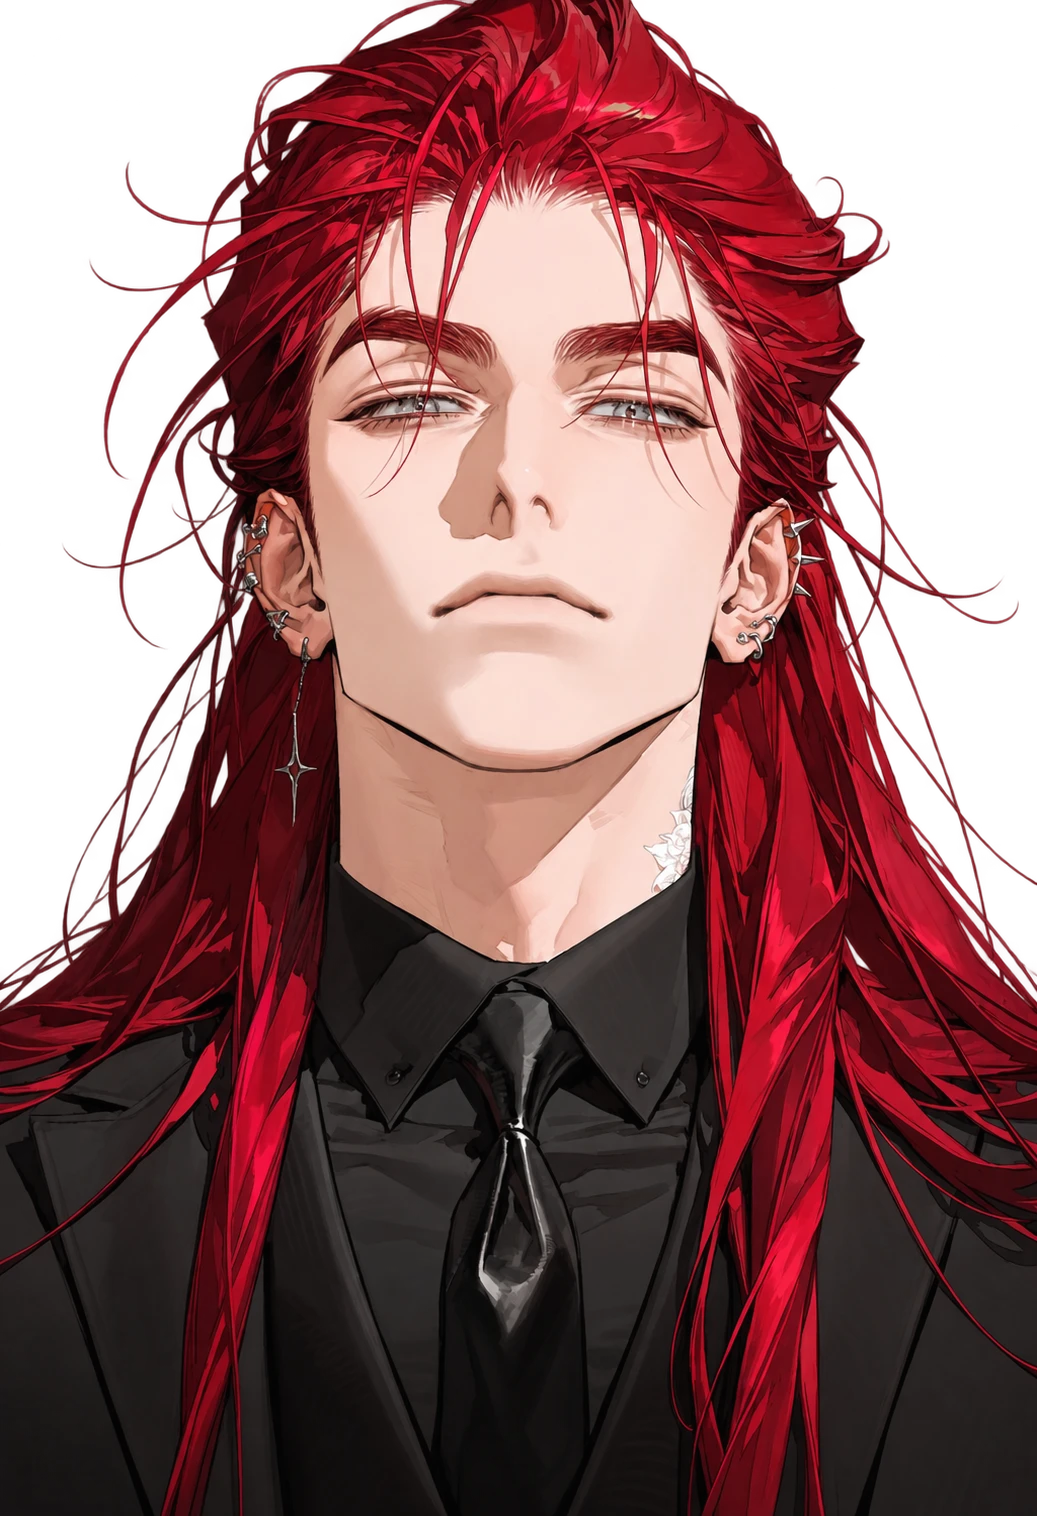
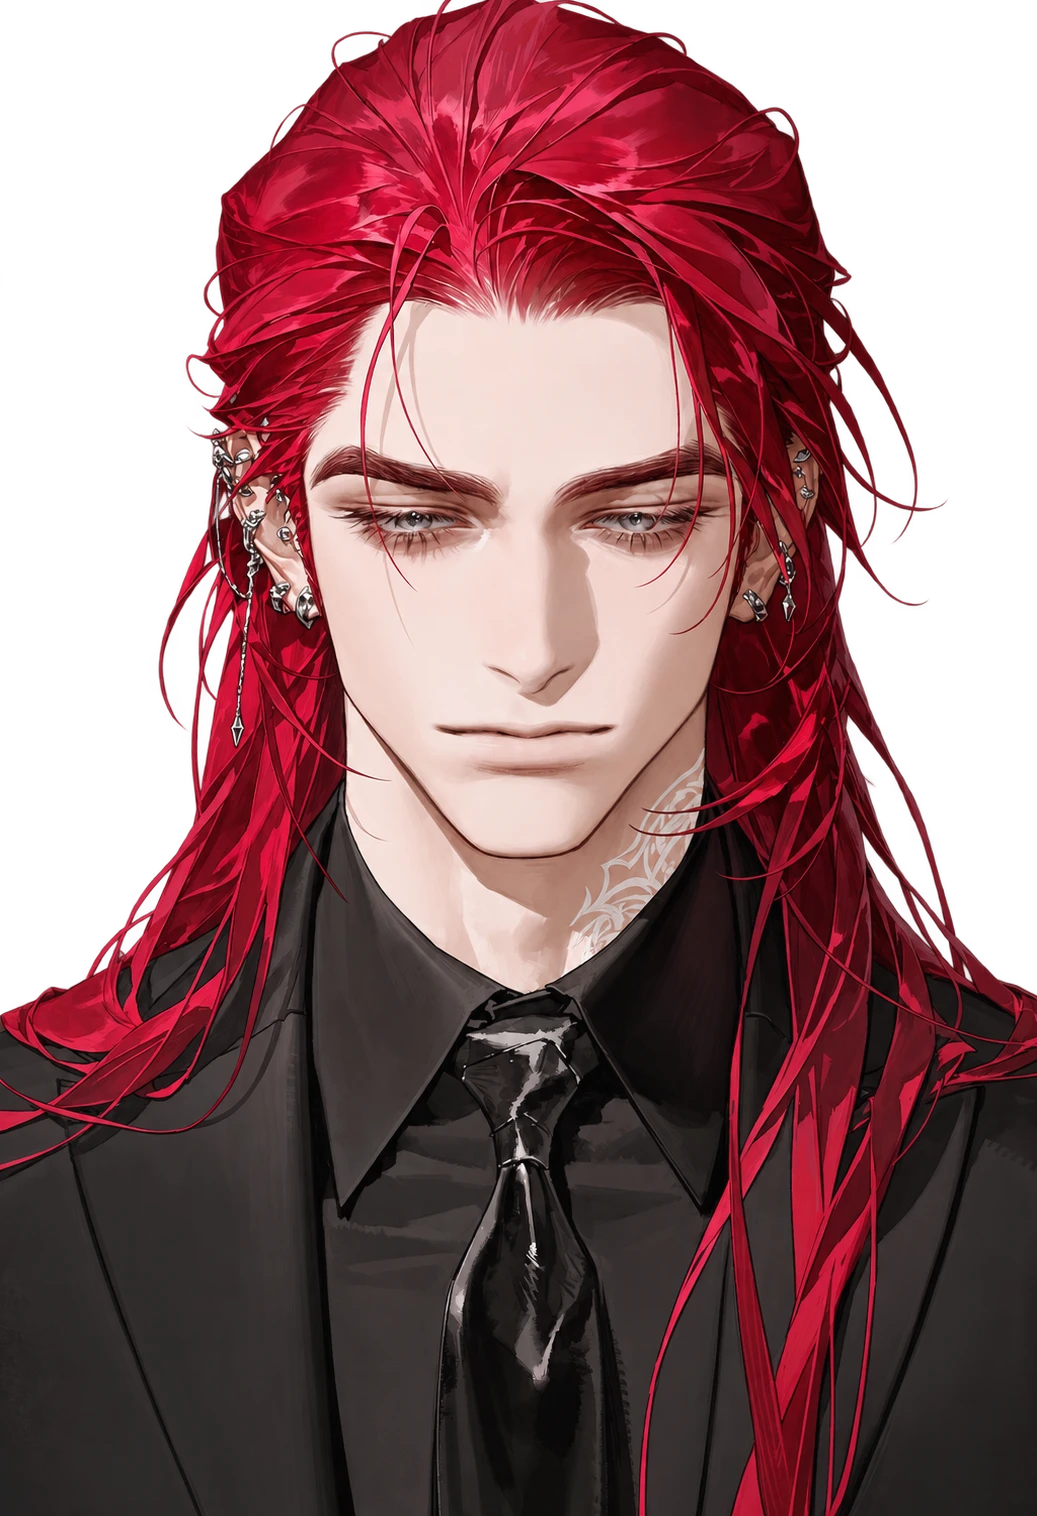
Refine plot records and update Yuan portrait

diff --git a/index.html b/index.html
@@ -1594,6 +1594,102 @@ button {
   letter-spacing: 0.08em;
 }
 
+.classified-record {
+  position: relative;
+  width: min(100%, 680px);
+  margin: clamp(44px, 7vw, 82px) auto 18px;
+  padding: clamp(26px, 5vw, 48px);
+  overflow: hidden;
+  border: 1px solid rgba(var(--detail-rgb), .42);
+  background:
+    linear-gradient(135deg, rgba(var(--detail-rgb), .08), transparent 52%),
+    repeating-linear-gradient(0deg, transparent 0 7px, rgba(var(--detail-rgb), .025) 8px 9px),
+    #060709;
+  font-family: var(--font-mono);
+  text-align: left;
+}
+.classified-record::before {
+  content: "LEVEL 9 // EYES ONLY";
+  position: absolute;
+  top: 14px;
+  right: 16px;
+  color: rgba(var(--detail-rgb), .42);
+  font-size: .48rem;
+  letter-spacing: .14em;
+}
+.classified-record > span,
+.classified-record > small {
+  display: block;
+  color: rgba(var(--detail-rgb), .62);
+  font-size: .52rem;
+  letter-spacing: .14em;
+}
+.classified-record > strong {
+  display: block;
+  margin: 20px 0 10px;
+  color: #d5d8dc;
+  font-family: var(--font-display);
+  font-size: clamp(1.9rem, 5vw, 4rem);
+  font-weight: 400;
+  letter-spacing: -.035em;
+  line-height: .95;
+}
+.classified-record-button {
+  position: relative;
+  display: grid;
+  grid-template-columns: 8px 1fr auto;
+  align-items: center;
+  gap: 14px;
+  margin-top: 30px;
+  padding: 17px 18px;
+  overflow: hidden;
+  border: 1px solid rgba(var(--detail-rgb), .72);
+  color: var(--detail-accent);
+  background: rgba(var(--detail-rgb), .035);
+  font-family: var(--font-mono);
+  font-size: .62rem;
+  letter-spacing: .13em;
+  text-decoration: none;
+}
+.classified-record-button i {
+  width: 6px;
+  height: 6px;
+  border-radius: 50%;
+  background: var(--detail-accent);
+  box-shadow: 0 0 12px rgba(var(--detail-rgb), .72);
+}
+.classified-record-button b { font-weight: 400; }
+.classified-record-button em { font-style: normal; }
+.classified-record-button::after {
+  content: "";
+  position: absolute;
+  inset: 0;
+  background: var(--detail-accent);
+  opacity: 0;
+  mix-blend-mode: screen;
+  pointer-events: none;
+}
+.classified-record-button:hover,
+.classified-record-button:focus-visible {
+  color: #050608;
+  background: var(--detail-accent);
+  outline: none;
+}
+.classified-record-button.is-authorizing::after { animation: classified-confirm 620ms steps(1, end); }
+.classified-record-button.is-authorizing i { animation: classified-signal 620ms steps(1, end); }
+
+@keyframes classified-confirm {
+  0%, 100% { opacity: 0; }
+  8%, 15% { opacity: .78; }
+  22%, 31% { opacity: 0; }
+  36%, 44% { opacity: .94; }
+  52% { opacity: 0; }
+}
+@keyframes classified-signal {
+  0%, 20%, 48%, 100% { opacity: 1; }
+  8%, 36% { opacity: .08; }
+}
+
 .contributor-credit {
   width: min(100%, 610px);
   display: grid;
@@ -2675,8 +2771,8 @@ const characters = [
   { id: "lingshuang", name: "LINGSHUANG", jp: "凌霜／リンシュアン", world: "imperial-court", affiliation: "王宮", tags: ["WARRIOR", "MOON WHITE"], monogram: "LS", image: "./assets/characters/lingshuang.webp", portraitScale: 1.04, portraitY: "-1%" },
   { id: "luoyan", name: "LUOYAN", jp: "洛焔／ルォイェン", world: "imperial-court", affiliation: "王宮", tags: ["PHYSICIAN", "PHOENIX"], monogram: "LY", image: "./assets/characters/luoyan.webp", portraitScale: 1.0, portraitY: "0%" },
 
-  { id: "imperial-guest-01", name: "YÙLÁN", jp: "玉兰／ユィーラン", world: "imperial-court", affiliation: "PROJECT GUEST", tags: ["♡ 滄瀾"], monogram: "YL", image: "./assets/characters/yulan.webp", portraitScale: 1.0, portraitY: "0%", creatorName: "ダンゴムシ以下", creatorUrl: "https://x.com/gdtp96?s=11&t=6iOo4PdUWuRILwVbg6hoPQ", projectUrl: "https://dangomu.github.io", worldOnly: true, guest: true, guestIndex: 1, noPrompt: true },
-  { id: "imperial-guest-02", name: "XĪNG HUÁNG", jp: "星煌／シン ファン", world: "imperial-court", affiliation: "PROJECT GUEST", tags: ["♡ 翡月"], monogram: "XH", image: "./assets/characters/xing-huang.webp", portraitScale: 1.0, portraitY: "0%", creatorName: "RIP", creatorUrl: "https://x.com/rip_zt?s=11&t=6iOo4PdUWuRILwVbg6hoPQ", projectUrl: "https://ripmmmrzt.github.io/rip-oc-archive/#home", worldOnly: true, guest: true, guestIndex: 2, noPrompt: true },
+  { id: "imperial-guest-01", name: "YÙLÁN", jp: "玉兰／ユィーラン", world: "imperial-court", affiliation: "PROJECT GUEST", tags: ["♡ 滄瀾"], monogram: "YL", image: "./assets/characters/xing-huang.webp", portraitScale: 1.0, portraitY: "0%", creatorName: "ダンゴムシ以下", creatorUrl: "https://x.com/gdtp96?s=11&t=6iOo4PdUWuRILwVbg6hoPQ", projectUrl: "https://dangomu.github.io", worldOnly: true, guest: true, guestIndex: 1, noPrompt: true },
+  { id: "imperial-guest-02", name: "XĪNG HUÁNG", jp: "星煌／シン ファン", world: "imperial-court", affiliation: "PROJECT GUEST", tags: ["♡ 翡月"], monogram: "XH", image: "./assets/characters/yulan.webp", portraitScale: 1.0, portraitY: "0%", creatorName: "RIP", creatorUrl: "https://x.com/rip_zt?s=11&t=6iOo4PdUWuRILwVbg6hoPQ", projectUrl: "https://ripmmmrzt.github.io/rip-oc-archive/#home", worldOnly: true, guest: true, guestIndex: 2, noPrompt: true },
   { id: "imperial-guest-03", name: "YÈDIÉ", jp: "夜蝶／イエディエ", world: "imperial-court", affiliation: "PROJECT GUEST", tags: ["♡ 凌霜"], monogram: "YD", image: "./assets/characters/yedie.webp", portraitScale: 1.0, portraitY: "0%", creatorName: "茨", creatorUrl: "https://x.com/5pfajp?s=11&t=6iOo4PdUWuRILwVbg6hoPQ", projectUrl: "https://ibaraaa.github.io/#home", worldOnly: true, guest: true, guestIndex: 3, noPrompt: true },
   { id: "imperial-guest-04", name: "LI YU", jp: "李雨／リーユー", world: "imperial-court", affiliation: "PROJECT GUEST", tags: ["♡ 洛焔"], monogram: "LY", image: "./assets/characters/li-yu.webp", portraitScale: 1.0, portraitY: "0%", creatorName: "RIP", creatorUrl: "https://x.com/rip_zt?s=11&t=6iOo4PdUWuRILwVbg6hoPQ", projectUrl: "https://ripmmmrzt.github.io/rip-oc-archive/#home", worldOnly: true, guest: true, guestIndex: 4, noPrompt: true },
   { id: "imperial-guest-05", name: "BÁI MÍNGJÌNG", jp: "白明鏡／バイ ミンジン", world: "imperial-court", affiliation: "PROJECT GUEST", tags: ["GUEST FILE"], monogram: "BM", image: "./assets/characters/bai-mingjing.webp", portraitScale: 1.0, portraitY: "0%", creatorName: "RIP", creatorUrl: "https://x.com/rip_zt?s=11&t=6iOo4PdUWuRILwVbg6hoPQ", projectUrl: "https://ripmmmrzt.github.io/rip-oc-archive/#home", worldOnly: true, guest: true, guestIndex: 5, noPrompt: true },
@@ -2686,8 +2782,8 @@ const characters = [
   { id: "theia", name: "THEIA", jp: "ティア", world: "devil-mate", affiliation: "悪魔の番", tags: ["DEER", "FLECKLE"], monogram: "TH", image: "./assets/characters/theia.webp", portraitScale: 1.0, portraitY: "0%" },
   { id: "livia", name: "LIVIA SLOANE", jp: "リヴィア・スローン", world: "devil-mate", affiliation: "悪魔の番", tags: ["INVESTIGATOR"], monogram: "LS", image: "./assets/characters/livia.webp", portraitScale: 1.0, portraitY: "0%" },
 
-  { id: "dante", name: "DANTE HARLOW", jp: "ダンテ・ハーロウ", world: "acheron", affiliation: "ACHERON", tags: ["THE NINTH", "CAPO"], monogram: "DH", image: "./assets/characters/dante-harlow.webp", portraitScale: 1.0, portraitY: "0%" },
-  { id: "theo", name: "THEO MOLDEN", jp: "テオ・モールデン", world: "acheron", affiliation: "ACHERON", tags: ["MALEBOLGE", "SCORPION"], monogram: "TM", image: "./assets/characters/theo-molden.webp", portraitScale: 1.0, portraitY: "0%" },
+  { id: "dante", name: "DANTE HARLOW", jp: "ダンテ・ハーロウ", world: "acheron", affiliation: "ACHERON", tags: ["THE NINTH", "CAPO"], monogram: "DH", image: "./assets/characters/dante-harlow.webp", portraitScale: 1.0, portraitY: "0%", noPrompt: true, externalProfileUrl: "https://zeta-ai.io/ja/plots/def8d6e4-16ed-47c5-891c-37ba9a56f2e8/profile?share_id=h9vfbxd8s" },
+  { id: "theo", name: "THEO MOLDEN", jp: "テオ・モールデン", world: "acheron", affiliation: "ACHERON", tags: ["MALEBOLGE", "SCORPION"], monogram: "TM", image: "./assets/characters/theo-molden.webp", portraitScale: 1.0, portraitY: "0%", noPrompt: true, externalProfileUrl: "https://zeta-ai.io/ja/plots/6cb9d2ab-d1ba-4016-a901-2d6864cb1b08/profile?share_id=1z6jlb8pn" },
 ];
 
 // Characters marked worldOnly belong to a world page but are not part of
@@ -2996,9 +3092,18 @@ function openCharacter(characterId, skipHash = false) {
 
     document.querySelector("#character-profile-title").textContent = "PROFILE";
     const profileCopy = document.querySelector("#character-profile-copy");
-    profileCopy.innerHTML = (character.profile
-      ? `<p class="detail-panel__copy">${character.profile}</p>`
-      : `<div class="profile-pending-stamp"><span>PROFILE FILE / STANDBY</span><strong>RECORD PENDING</strong><small>INFORMATION WILL BE ADDED LATER</small></div>`);
+    profileCopy.innerHTML = character.externalProfileUrl
+      ? `<div class="classified-record">
+          <span>EXTERNAL PLOT RECORD / OMEGA CLEARANCE</span>
+          <strong>RESTRICTED INTELLIGENCE</strong>
+          <small>AUTHORIZED PERSONNEL ONLY</small>
+          <a class="classified-record-button" href="${character.externalProfileUrl}" target="_blank" rel="noopener noreferrer">
+            <i aria-hidden="true"></i><b>ACCESS CLASSIFIED RECORD</b><em>↗</em>
+          </a>
+        </div>`
+      : (character.profile
+        ? `<p class="detail-panel__copy">${character.profile}</p>`
+        : `<div class="profile-pending-stamp"><span>PROFILE FILE / STANDBY</span><strong>RECORD PENDING</strong><small>INFORMATION WILL BE ADDED LATER</small></div>`);
     const promptTab = document.querySelector("#character-prompt-tab");
     const galleryTab = document.querySelector('[data-detail-tab="gallery"]');
     promptTab.hidden = Boolean(character.noPrompt);
@@ -3325,6 +3430,14 @@ document.addEventListener("contextmenu", (event) => {
 });
 document.addEventListener("dragstart", (event) => {
   if (event.target.closest(protectedMediaSelector)) event.preventDefault();
+});
+document.addEventListener("click", (event) => {
+  const classifiedLink = event.target.closest(".classified-record-button");
+  if (!classifiedLink) return;
+  classifiedLink.classList.remove("is-authorizing");
+  void classifiedLink.offsetWidth;
+  classifiedLink.classList.add("is-authorizing");
+  window.setTimeout(() => classifiedLink.classList.remove("is-authorizing"), 680);
 });
 
 });
